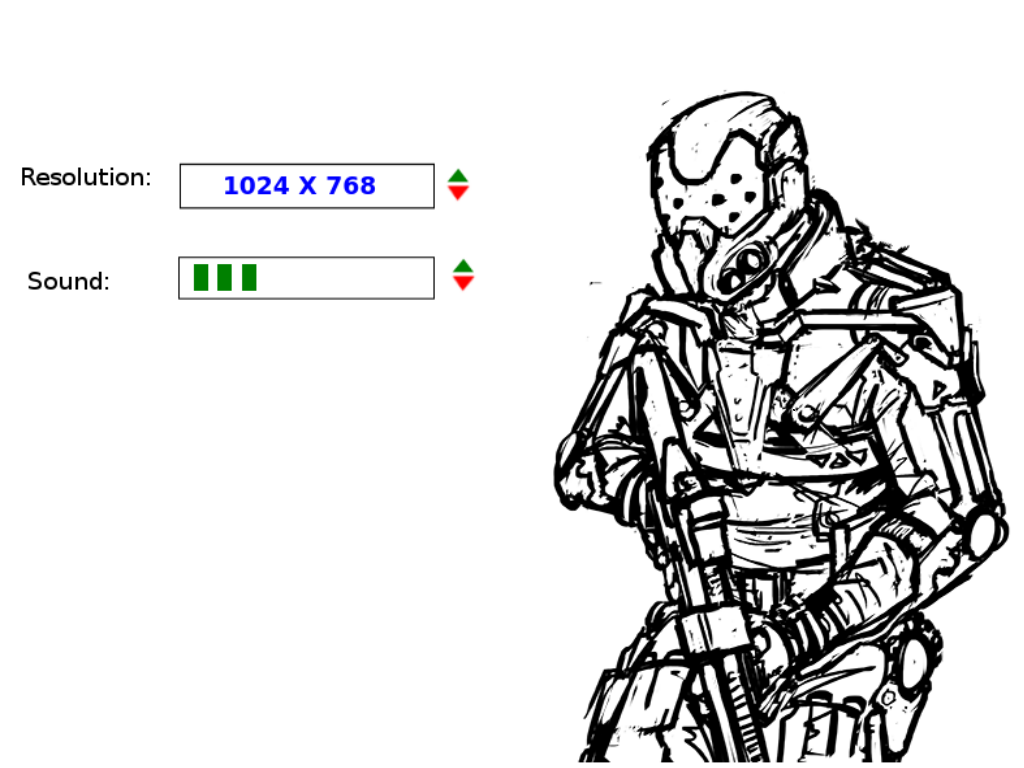
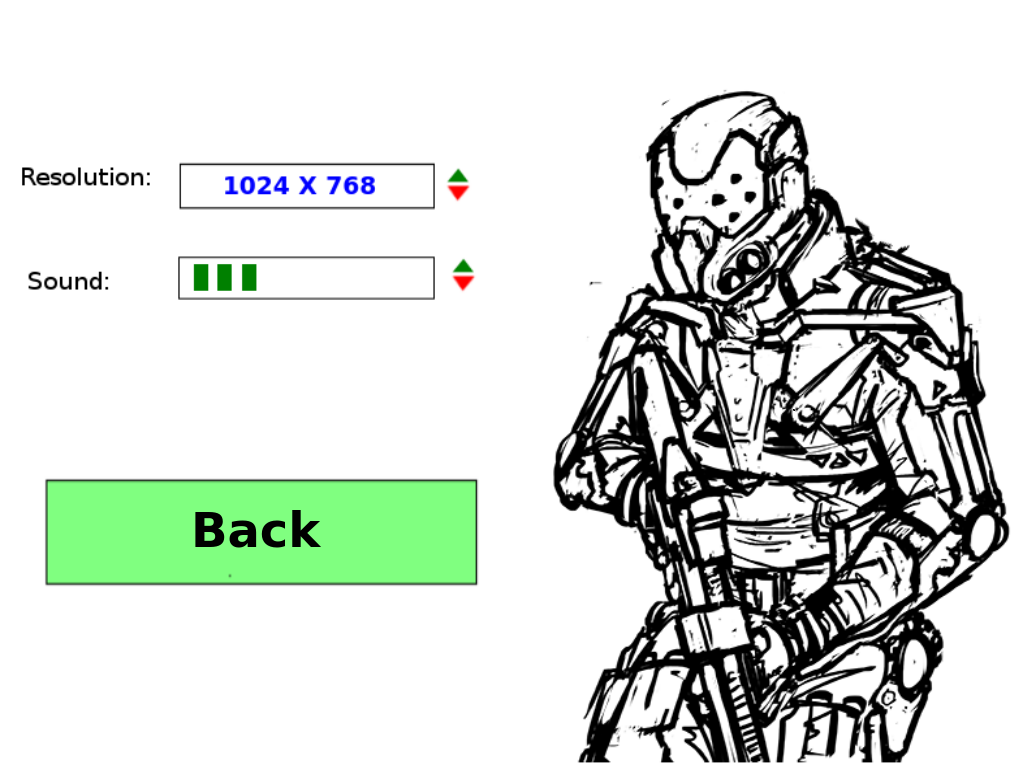
settings button finish

Changed region(s): [[0.0312, 0.625, 0.4688, 0.7812]]

diff --git a/game/src/menu.cpp b/game/src/menu.cpp
@@ -4,20 +4,20 @@
 #include "menu.h"
 #include "resourcesmanager.h"
 
+Environment *env = nullptr;
+
 Menu::Menu(const string& next, const string& image)
     : Level("", next), m_image(nullptr)
 {
-    Environment *env = Environment::get_instance();
+    env = Environment::get_instance();
     shared_ptr<Resource> r = env->resources_manager->get(Resource::IMAGE,
         image);
     m_image = dynamic_cast<Image *>(r.get());
-
 }
 
 void
 Menu::draw_self()
 {
-    Environment *env = Environment::get_instance();
     env->canvas->clear();
     env->canvas->draw(m_image, 0, 0);
 }
@@ -31,14 +31,18 @@ Menu::execute_action(const int x, const int y)
 
     if(start_button.is_clicked(x, y))
     {
+        //TO DO
     }
     else if(settings_button.is_clicked(x, y))
     {
+        shared_ptr<Resource> r = env->resources_manager->get(Resource::IMAGE,
+        "res/images/settings.png");
+        m_image = dynamic_cast<Image *>(r.get());
     } 
     else if(exit_button.is_clicked(x, y))
     {
         return true;
     }
-    
+
     return false;
 }

diff --git a/game/include/menu.h b/game/include/menu.h
@@ -9,6 +9,8 @@
 #define Y_SETTINGS 313
 #define X_EXIT 119
 #define Y_EXIT 475
+#define X_BACK 49
+#define Y_BACK 480
 #define W_BUTTON 428
 #define H_BUTTON 103
 
